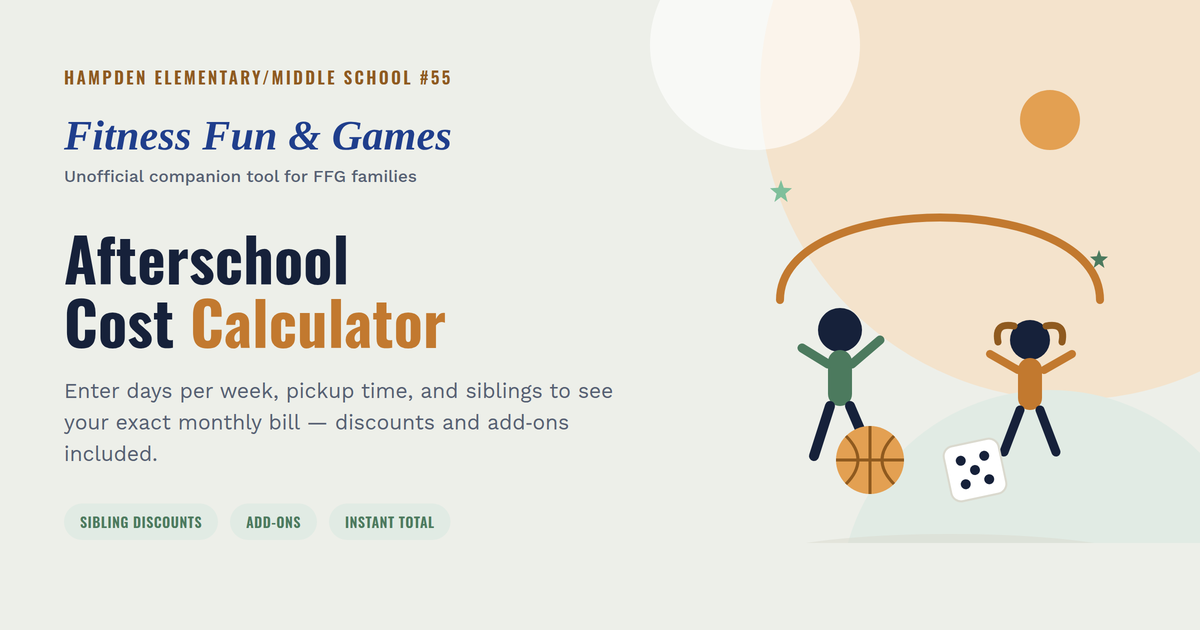
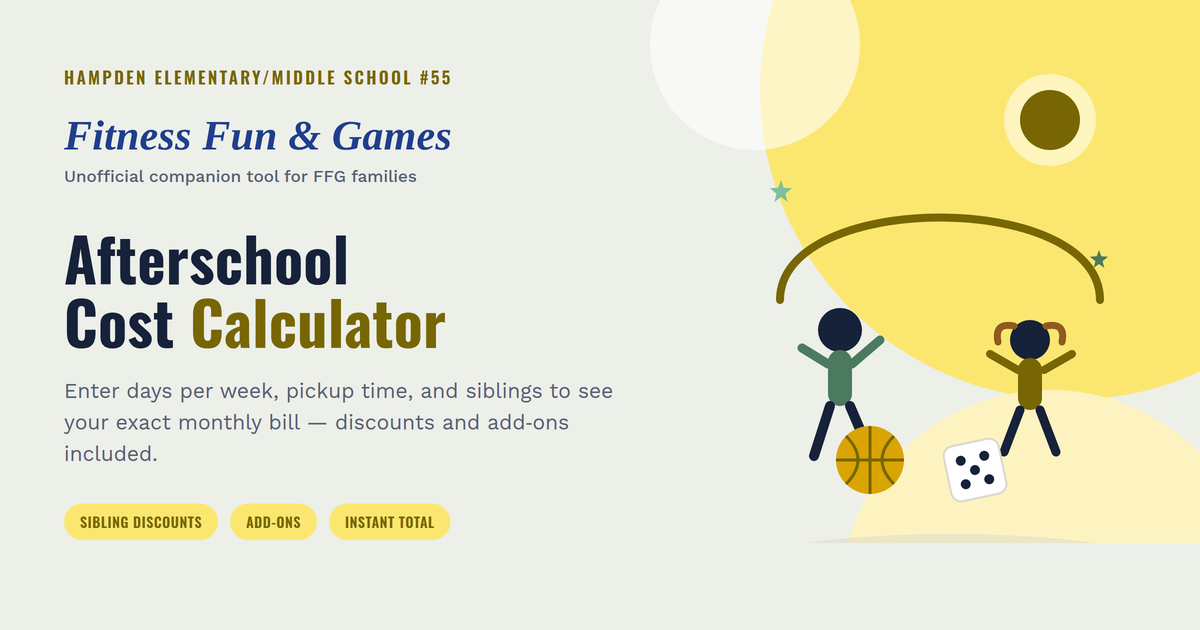
Use FFG's brand yellow as the primary accent color
Sampled the yellow (#FBE770) from the real fitnessfunandgames.org
site (yellow band on the welcome section, FFG-branded t-shirts) and
swapped it in for the calculator's orange accent across light/dark
themes, choosing darker/lighter derived tones for text so contrast
stays WCAG AA-compliant. Regenerated og-image.png to make that
yellow the dominant background color, mirroring the site's look.

Claude-Session: https://claude.ai/code/session_01KFLS8KM5aGjduRN3KvovTQ

diff --git a/index.html b/index.html
@@ -30,9 +30,9 @@
     --ink: #16213A;
     --ink-soft: #566073;
     --ink-faint: #8892A0;
-    --accent: #C2792F;
-    --accent-deep: #8F5A1F;
-    --accent-soft: #F4E3CC;
+    --accent: #9F8904;
+    --accent-deep: #776603;
+    --accent-soft: #FBE770;
     --line: #DAD9CE;
     --savings: #4C7A5E;
     --savings-soft: #E1EBE4;
@@ -47,9 +47,9 @@
       --ink: #ECEAE1;
       --ink-soft: #A9B0C4;
       --ink-faint: #74809D;
-      --accent: #E3A052;
-      --accent-deep: #F0B876;
-      --accent-soft: #3A3120;
+      --accent: #FBE770;
+      --accent-deep: #F7E997;
+      --accent-soft: #3B3616;
       --line: #2B3350;
       --savings: #7FBF9B;
       --savings-soft: #1F3327;
@@ -64,9 +64,9 @@
     --ink: #ECEAE1;
     --ink-soft: #A9B0C4;
     --ink-faint: #74809D;
-    --accent: #E3A052;
-    --accent-deep: #F0B876;
-    --accent-soft: #3A3120;
+    --accent: #FBE770;
+    --accent-deep: #F7E997;
+    --accent-soft: #3B3616;
     --line: #2B3350;
     --savings: #7FBF9B;
     --savings-soft: #1F3327;
